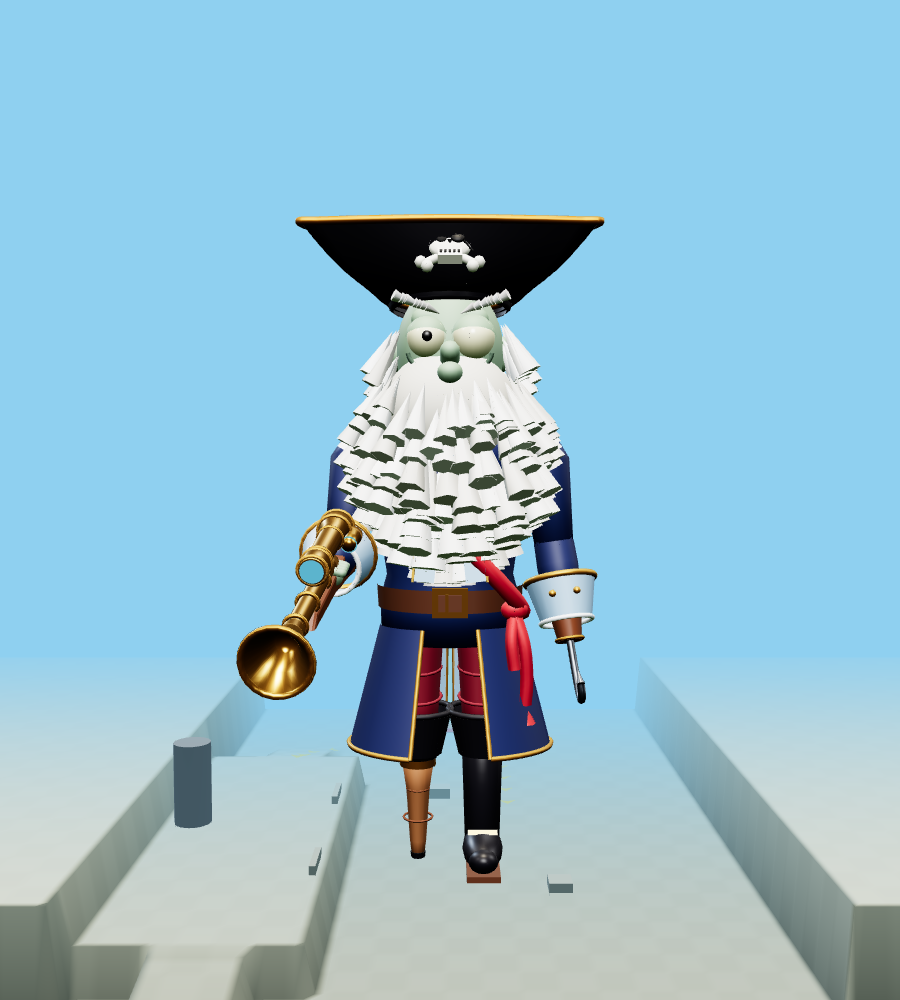
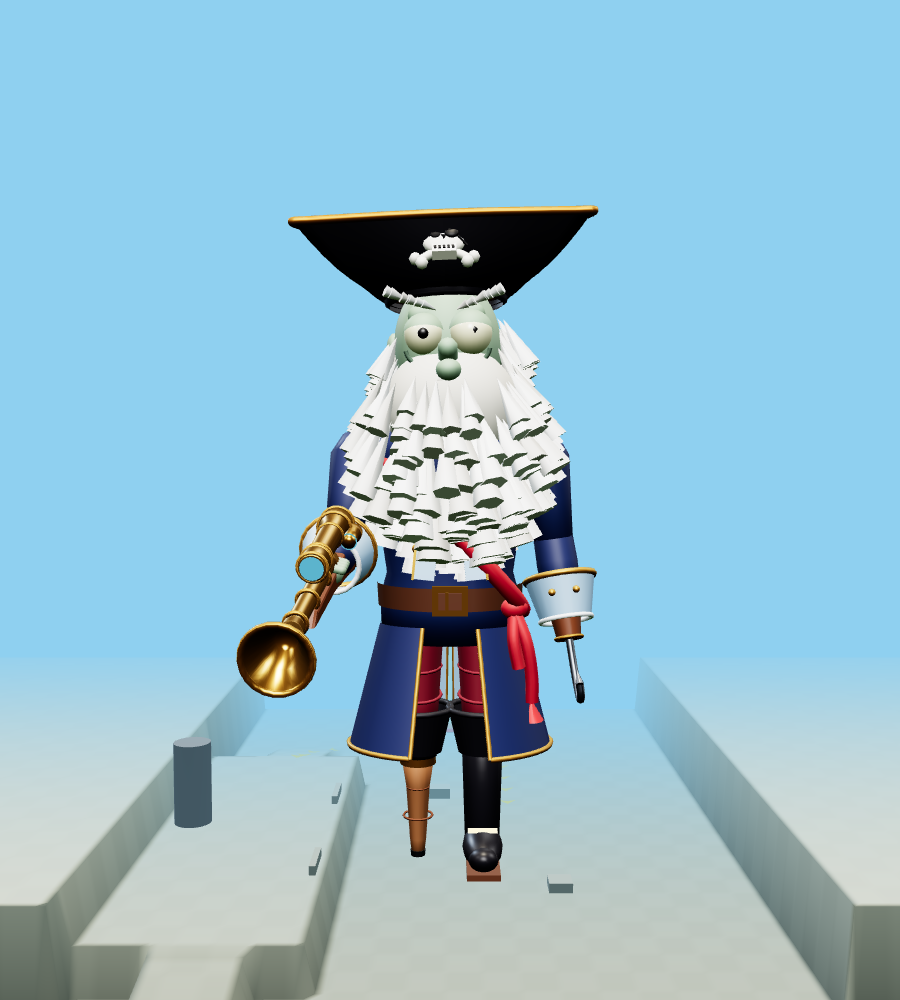
Render: skip sub-texel shadow casters, unify instanced materials, single-pass transparent FX; refresh pirate screenshots

diff --git a/index.html b/index.html
@@ -935,6 +935,9 @@ const CONFIG = {
   skullTime: 20,                // the ghost skull marks where a pack spawned for this many seconds
   markerArrowLength: 48,        // metres of each active route shown by ground arrows during the countdown
   maxParticles: 450,
+  render: {
+    minShadowCaster: 0.03,     // m: baked rig parts smaller than this skip the shadow pass (under a shadow texel)
+  },
   plantShotLife: 6,       // s; plant bullets fly until they hit something or leave the map (this is only a safety net)
   fxLights: 2,            // pooled effect point lights (Super Brainz balls); fixed so shaders never recompile
 
@@ -1220,7 +1223,30 @@ function bakeRig(root, refs = null) {
   };
   scan(refs, 0);
   root.traverse(o => { if (Object.keys(o.userData).length) scan(o.userData, 0); });
-  const plainRender = THREE.Object3D.prototype.onBeforeRender;
+  const plainRender = THREE.Object3D.prototype.onBeforeRender, scale = new THREE.Vector3();
+  // Parts smaller than a shadow-map texel (eyelets, rivets, laces) cast no visible shadow: skip their shadow draw
+  root.updateMatrixWorld(true);
+  root.traverse(o => {
+    if (!o.isMesh || !o.castShadow || !o.geometry.attributes.position) return;
+    if (!o.geometry.boundingSphere) o.geometry.computeBoundingSphere();
+    o.getWorldScale(scale);
+    if (o.geometry.boundingSphere.radius * Math.max(scale.x, scale.y, scale.z) < CONFIG.render.minShadowCaster) o.castShadow = false;
+  });
+  // A material drawn with mixed receiveShadow / instancing makes three.js re-resolve its shader on every draw:
+  // unify receiveShadow, and give instanced users a twin material that mirrors the original's flash/fade state.
+  const uses = new Map();
+  root.traverse(o => { if (o.isMesh && !Array.isArray(o.material)) { if (!uses.has(o.material)) uses.set(o.material, []); uses.get(o.material).push(o); } });
+  for (const [m, list] of uses) {
+    if (list.some(o => o.receiveShadow)) for (const o of list) o.receiveShadow = true;
+    const inst = list.filter(o => o.isInstancedMesh);
+    if (!inst.length || inst.length === list.length) continue;
+    const twin = m.clone();
+    const mirror = () => {
+      twin.color?.copy(m.color); twin.emissive?.copy(m.emissive);
+      twin.emissiveIntensity = m.emissiveIntensity; twin.opacity = m.opacity; twin.visible = m.visible;
+    };
+    for (const o of inst) { o.material = twin; o.onBeforeRender = mirror; }
+  }
   const parents = [];
   root.traverse(o => { if (o.children.length > 1 && !o.userData.noMerge) parents.push(o); });
   for (const p of parents) {
@@ -1270,15 +1296,19 @@ const shaderGuard = { active: false, queue: [], pending: [], pinned: 0,
 const objectAdd = THREE.Object3D.prototype.add;
 THREE.Object3D.prototype.add = function (object) {
   const result = objectAdd.apply(this, arguments);
-  if (shaderGuard.active && arguments.length === 1 && object !== this) {   // multi-adds recurse one by one
+  if (shaderGuard.active && arguments.length === 1 && object !== this && !object.prewarmed) {   // multi-adds recurse one by one
     let root = this; while (root.parent) root = root.parent;
     if (root === scene) shaderGuard.queue.push(object);
   }
   return result;
 };
 const guardBatch = { list: null, traverse(cb) { for (const o of this.list) o.traverse(cb); }, traverseVisible() {} };
+// Transparent double-sided materials draw in two passes (back, then front), and each pass re-resolves the shader:
+// for effects that's pure overhead, so they draw both faces in one pass.
+const singlePass = o => { for (const m of [].concat(o.material || [])) if (m.transparent && m.side === THREE.DoubleSide) m.forceSinglePass = true; };
 function updateShaderGuard() {
   const G = shaderGuard, programs = renderer.info.programs;
+  for (const o of G.queue) o.traverse(singlePass);
   if (G.queue.length && G.parallel) {
     guardBatch.list = G.queue; G.queue = [];
     const waiting = new Set();
@@ -3455,8 +3485,9 @@ function resetGame() {
   clearPirateWorld();
   clearGargantuarWorld();
   zombies.forEach(z => { z.dead = true; z.parts.dispose?.(); });   // release each rig's own resources
-  [...zombies, ...projectiles, ...rockets, ...butterPats, ...enemyProjectiles, ...effects, ...particles]
+  [...zombies, ...projectiles, ...rockets, ...butterPats, ...enemyProjectiles, ...effects]
     .forEach(o => scene.remove(o.mesh));
+  particles.forEach(p => freeParticle(p.mesh));
   popups.forEach(p => p.el.remove());
   skulls.forEach(s => s.life = 0);   // removed on the next updateSkulls
   zombies = []; projectiles = []; rockets = []; butterPats = []; enemyProjectiles = []; effects = []; particles = []; popups = [];
@@ -3813,7 +3844,7 @@ const overlay = document.getElementById('overlay');
 
 document.getElementById('matchButton').addEventListener('click', () => {
   if (!matchStarted || state.over) {
-    configureSquad(readSquadSelection()); fillRigPools();   // restart: rebuild spent rigs before play
+    configureSquad(readSquadSelection()); fillRigPools(); warmUpload();   // restart: rebuild spent rigs before play
     matchStarted = true;
     document.body.classList.remove('preMatch');
   }
@@ -3912,17 +3943,22 @@ const PARTICLE_GEO = {
   puff: new THREE.SphereGeometry(0.3, 8, 6),
   leaf: new THREE.PlaneGeometry(0.22, 0.1),
 };
+// Particle meshes are recycled (no per-particle material/mesh allocation, no GC churn). A recycled mesh has been
+// drawn already, so it skips the shader guard (`prewarmed`).
+const particlePool = [];
+function freeParticle(m) { scene.remove(m); m.prewarmed = true; particlePool.push(m); }
 function spawnParticle(kind, color, pos, vel, { life = 0.6, gravity = 18, grow = 0, size = 1, additive = false, drag = 0 } = {}) {
-  const mat = new THREE.MeshBasicMaterial({ color, transparent: true, opacity: 1, depthWrite: false,
-    side: THREE.DoubleSide, blending: additive ? THREE.AdditiveBlending : THREE.NormalBlending });
-  const mesh = new THREE.Mesh(PARTICLE_GEO[kind], mat);
+  let mesh = particlePool.pop();
+  if (mesh) { mesh.geometry = PARTICLE_GEO[kind]; mesh.material.color.set(color); mesh.material.opacity = 1; }
+  else mesh = new THREE.Mesh(PARTICLE_GEO[kind], new THREE.MeshBasicMaterial({ color, transparent: true, opacity: 1, depthWrite: false, side: THREE.DoubleSide, forceSinglePass: true }));
+  mesh.material.blending = additive ? THREE.AdditiveBlending : THREE.NormalBlending;
   mesh.position.copy(pos);
   mesh.scale.setScalar(size);
   mesh.rotation.set(Math.random() * 6, Math.random() * 6, Math.random() * 6);
   scene.add(mesh);
   particles.push({ mesh, vel, life, maxLife: life, gravity, grow, size, drag,
     spin: new THREE.Vector3(Math.random() - 0.5, Math.random() - 0.5, Math.random() - 0.5).multiplyScalar(14) });
-  if (particles.length > CONFIG.maxParticles) { const old = particles.shift(); scene.remove(old.mesh); old.mesh.material.dispose(); }
+  if (particles.length > CONFIG.maxParticles) freeParticle(particles.shift().mesh);
 }
 const rand3 = (s, up = 0) => new THREE.Vector3((Math.random() - 0.5) * s, (Math.random() - 0.5) * s + up, (Math.random() - 0.5) * s);
 
@@ -3930,7 +3966,7 @@ function updateParticles(dt) {
   for (let i = particles.length - 1; i >= 0; i--) {
     const p = particles[i], m = p.mesh;
     p.life -= dt;
-    if (p.life <= 0) { scene.remove(m); m.material.dispose(); particles.splice(i, 1); continue; }
+    if (p.life <= 0) { freeParticle(m); particles.splice(i, 1); continue; }
     p.vel.y -= p.gravity * dt;
     if (p.drag) p.vel.multiplyScalar(Math.exp(-p.drag * dt));
     m.position.addScaledVector(p.vel, dt);
@@ -3944,15 +3980,17 @@ function updateParticles(dt) {
 }
 
 // Expanding fading sphere (kind 'sphere'), ground shockwave ring ('ring'), or a fading ground splat ('decal')
+// Effects share unit geometries (scaled per effect) instead of building and uploading new ones per explosion
+const EFFECT_GEO = { sphere: new THREE.SphereGeometry(1, 16, 16), ring: new THREE.RingGeometry(0.8, 1, 48), decal: new THREE.CircleGeometry(1, 24) };
 function spawnExplosion(pos, radius, color = 0xff8800) {
-  const mesh = new THREE.Mesh(new THREE.SphereGeometry(1, 16, 16),
+  const mesh = new THREE.Mesh(EFFECT_GEO.sphere,
     new THREE.MeshBasicMaterial({ color, transparent: true, opacity: 0.7, depthWrite: false }));
   mesh.position.copy(pos);
   scene.add(mesh);
   effects.push({ mesh, t: 0, duration: 0.35, radius, kind: 'sphere' });
 }
 function spawnRing(pos, radius, color, duration = 0.4) {
-  const mesh = new THREE.Mesh(new THREE.RingGeometry(0.8, 1, 48),
+  const mesh = new THREE.Mesh(EFFECT_GEO.ring,
     new THREE.MeshBasicMaterial({ color, transparent: true, opacity: 0.9, depthWrite: false, side: THREE.DoubleSide }));
   mesh.rotation.x = -Math.PI / 2;
   mesh.position.set(pos.x, 0.08, pos.z);
@@ -3960,9 +3998,9 @@ function spawnRing(pos, radius, color, duration = 0.4) {
   effects.push({ mesh, t: 0, duration, radius, kind: 'ring' });
 }
 function spawnDecal(pos, radius, color, duration) {
-  const mesh = new THREE.Mesh(new THREE.CircleGeometry(radius, 24),
+  const mesh = new THREE.Mesh(EFFECT_GEO.decal,
     new THREE.MeshStandardMaterial({ color, roughness: 0.2, transparent: true, opacity: 0.85, depthWrite: false }));
-  mesh.rotation.x = -Math.PI / 2;
+  mesh.rotation.x = -Math.PI / 2; mesh.scale.setScalar(radius);
   mesh.position.set(pos.x, 0.03 + Math.random() * 0.01, pos.z);
   mesh.receiveShadow = true;
   scene.add(mesh);
@@ -3983,7 +4021,7 @@ function updateEffects(dt) {
     } else if (e.kind === 'decal') {
       e.mesh.material.opacity = 0.85 * Math.min(1, (1 - k) * 4);
     }
-    if (k >= 1) { scene.remove(e.mesh); e.mesh.geometry.dispose(); e.mesh.material.dispose(); effects.splice(i, 1); }
+    if (k >= 1) { scene.remove(e.mesh); e.mesh.material.dispose(); effects.splice(i, 1); }   // geometry is shared
   }
 }
 
@@ -4503,9 +4541,12 @@ function freeSolarObject(root) {
   if (!root) return;
   scene.remove(root);
   const geometries = new Set(), materials = new Set();
-  root.traverse(o => { if (o.geometry) geometries.add(o.geometry); if (o.material) materials.add(o.material); });
+  root.traverse(o => { if (o.geometry && !o.geometry.userData.shared) geometries.add(o.geometry); if (o.material) materials.add(o.material); });
   geometries.forEach(g => g.dispose()); materials.forEach(m => m.dispose());
 }
+// Sun pulse shapes are shared by every shot (no geometry build + upload per shot)
+const SUN_PULSE_GEO = { core: new THREE.SphereGeometry(0.065, 8, 6), halo: new THREE.SphereGeometry(0.115, 8, 6) };
+SUN_PULSE_GEO.core.userData.shared = SUN_PULSE_GEO.halo.userData.shared = true;
 function clearSunflowerWorld() {
   for (const a of [sunPulses, healFlowers, sunDrops]) for (const o of a) freeSolarObject(o.mesh);
   sunPulses = []; healFlowers = []; sunDrops = [];
@@ -4609,9 +4650,9 @@ function fireSunPulse(h) {
   if (h.sun?.sunbeam) return;
   const W = h.weapon, F = CONFIG.SUNFLOWER.fx, start = sunflowerMuzzle(h), dir = aimedDir(h, start, currentSpread(h));
   const mesh = new THREE.Group();
-  const core = new THREE.Mesh(new THREE.SphereGeometry(0.065, 8, 6), new THREE.MeshBasicMaterial({ color: F.coreColor, toneMapped: false }));
+  const core = new THREE.Mesh(SUN_PULSE_GEO.core, new THREE.MeshBasicMaterial({ color: F.coreColor, toneMapped: false }));
   core.scale.z = 2.7; mesh.add(core);
-  const halo = new THREE.Mesh(new THREE.SphereGeometry(0.115, 8, 6), new THREE.MeshBasicMaterial({ color: F.pulseColor,
+  const halo = new THREE.Mesh(SUN_PULSE_GEO.halo, new THREE.MeshBasicMaterial({ color: F.pulseColor,
     transparent: true, opacity: 0.35, blending: THREE.AdditiveBlending, depthWrite: false, toneMapped: false }));
   halo.scale.z = 2.1; mesh.add(halo); mesh.position.copy(start); mesh.quaternion.setFromUnitVectors(FWD_Z, dir); scene.add(mesh);
   sunPulses.push({ mesh, vel: dir.multiplyScalar(W.kernelSpeed), start: start.clone(), life: CONFIG.plantShotLife, owner: h, weapon: W });
@@ -13897,12 +13938,11 @@ function buildPirateParrot(M) {
 function attachPirateRig(mesh, parts, def) {
   const halfH = def.radius + def.height / 2;
   mesh.material.visible = false; mesh.castShadow = false;
-  const M = pirateMaterials();
-  const rig = buildDeadbeard(M);
+  const { M, rig, keg, cannon } = takeRig('pirate');   // cloned from a prebuilt template (shared geometry)
   rig.root.position.y = -halfH; rig.root.scale.setScalar(0.94);
   mesh.add(rig.root);
-  const keg = buildPirateKeg(M, true); keg.g.position.y = -halfH; keg.g.visible = false; mesh.add(keg.g);
-  const cannon = buildPirateCannon(M); cannon.g.position.y = -halfH; cannon.g.visible = false; mesh.add(cannon.g);
+  keg.g.position.y = -halfH; keg.g.visible = false; mesh.add(keg.g);
+  cannon.g.position.y = -halfH; cannon.g.visible = false; mesh.add(cannon.g);
   // Sniper laser telegraph (world space, stretched along +Z)
   const laser = new THREE.Mesh(new THREE.CylinderGeometry(0.012, 0.012, 1, 6, 1, true).rotateX(Math.PI / 2).translate(0, 0, 0.5),
     new THREE.MeshBasicMaterial({ color: 0xff3020, transparent: true, opacity: 0, blending: THREE.AdditiveBlending, depthWrite: false }));
@@ -13914,9 +13954,7 @@ function attachPirateRig(mesh, parts, def) {
     animate: animateDeadbeard,
     dispose() {
       scene.remove(laser); laser.geometry.dispose(); laser.material.dispose();
-      const geos = new Set();
-      mesh.traverse(o => { if (o.geometry && o !== mesh) geos.add(o.geometry); });
-      geos.forEach(g => g.dispose()); mats.forEach(m => m.dispose());
+      mats.forEach(m => m.dispose());   // geometry belongs to the shared rig template
     },
   });
 }
@@ -16320,13 +16358,81 @@ Object.assign(window.__game, { gargantuarState, gargantuarStartSlam, launchGarga
 Object.assign(window.__game, { THREE, renderer, buildImp, buildZMech, callZMech, throwGravityGrenade, ejectZMech });
 Object.assign(window.__game, { buildMechaGargantuar, mechaState, mechaBegin, mechaThrowBomb, mechaBombs });
 
-// Prebuilt procedural rigs: each spawn takes a fresh one built behind a loading screen (boot / match reset)
-// instead of sculpting it mid-match; an empty pool falls back to building on the spot.
+// Prebuilt procedural rigs, never sculpted mid-match (a build is 3-10 ms, longer than a 144 Hz frame).
+// `templates` rigs are built + baked once at boot; every spawn clones one (cloneRig, ~1 ms) with its own materials,
+// cycling through a few variants. `count` rigs (the one-off final boss) are prebuilt per match instead.
 const bakedRig = r => (bakeRig(r.root || r, r), r);
-const RIG_POOL = { mecha: { build: () => bakedRig(buildMechaGargantuar()), count: 1, list: [] }, imp: { build: () => bakedRig(buildImp()), count: 2, list: [] },
-  zmech: { build: () => bakedRig(buildZMech()), count: 1, list: [] }, soldier: { build: () => bakedRig(buildFootSoldier()), count: 2, list: [] } };
-function takeRig(key) { const p = RIG_POOL[key]; return p.list.pop() || p.build(); }
-function fillRigPools() { for (const p of Object.values(RIG_POOL)) while (p.list.length < p.count) p.list.push(p.build()); }
+const RIG_POOL = {
+  mecha: { build: () => bakedRig(buildMechaGargantuar()), count: 1, list: [] },
+  imp: { build: () => bakedRig(buildImp()), templates: 2 },
+  zmech: { build: () => bakedRig(buildZMech()), templates: 1 },
+  soldier: { build: () => bakedRig(buildFootSoldier()), templates: 3, init: rig => {   // own idle rhythm + laser
+    const u = rig.userData; u.phase = Math.random() * 10; u.twitchT = 1 + Math.random() * 3;
+    for (const o of [u.laser, u.laserDot]) if (!o.parent) scene.add(o); } },
+  pirate: { build: () => { const M = pirateMaterials(), rig = buildDeadbeard(M);
+    const t = { M, rig, keg: buildPirateKeg(M, true), cannon: buildPirateCannon(M) }; bakeRig(rig.root, t); return t; }, templates: 2 },
+};
+function takeRig(key) {
+  const p = RIG_POOL[key];
+  if (p.templates) {
+    p.built ||= Array.from({ length: p.templates }, p.build);
+    const rig = cloneRig(p.built[p.next = ((p.next ?? -1) + 1) % p.built.length]);
+    p.init?.(rig);
+    return rig;
+  }
+  return p.list.pop() || p.build();
+}
+function fillRigPools() {
+  for (const p of Object.values(RIG_POOL)) {
+    if (p.templates) p.built ||= Array.from({ length: p.templates }, p.build);
+    else while (p.list.length < p.count) p.list.push(p.build());
+  }
+}
+// Deep-copy a rig template: its Object3D trees (geometry shared, materials cloned once per rig) and every value the
+// builder returned or kept in userData, with references to template objects / materials pointed at the copies.
+// Objects the template parked straight in the scene (laser telegraphs) are copied into the scene too.
+function cloneRig(template) {
+  const objs = new Map(), mats = new Map(), done = new Map();
+  const copyMat = m => {
+    if (!mats.has(m)) { const ud = m.userData; m.userData = {}; const c = m.clone(); m.userData = ud; mats.set(m, c);
+      c.onBeforeCompile = m.onBeforeCompile; c.customProgramCacheKey = m.customProgramCacheKey; c.userData = copy(ud); }
+    return mats.get(m);
+  };
+  const copyTree = src => {
+    const ud = src.userData; src.userData = {};
+    const c = src.clone(false); src.userData = ud;
+    objs.set(src, c);
+    if (c.material) c.material = Array.isArray(c.material) ? c.material.map(copyMat) : copyMat(c.material);
+    for (const child of src.children) objectAdd.call(c, copyTree(child));
+    return c;
+  };
+  const mapObject = o => {
+    if (!objs.has(o)) {
+      let top = o; while (top.parent && top.parent !== scene) top = top.parent;
+      const c = copyTree(top);
+      if (top.parent === scene) scene.add(c);
+      for (const [src, dst] of objs) if (!dst.userDataCopied) { dst.userDataCopied = true; dst.userData = copy(src.userData); }
+    }
+    return objs.get(o);
+  };
+  const copy = v => {
+    if (!v || typeof v !== 'object') return v;
+    if (v.isObject3D) return mapObject(v);
+    if (v.isMaterial) return copyMat(v);
+    if (v.isColor || v.isVector2 || v.isVector3 || v.isVector4 || v.isQuaternion || v.isEuler || v.isMatrix4) return v.clone();
+    if (done.has(v)) return done.get(v);
+    let out;
+    if (Array.isArray(v)) { out = []; done.set(v, out); for (const x of v) out.push(copy(x)); }
+    else if (v instanceof Map) { out = new Map(); done.set(v, out); for (const [k, x] of v) out.set(k, copy(x)); }
+    else if (v instanceof Set) { out = new Set(); done.set(v, out); for (const x of v) out.add(copy(x)); }
+    else if (Object.getPrototypeOf(v) === Object.prototype) { out = {}; done.set(v, out); for (const k in v) out[k] = copy(v[k]); }
+    else return v;   // geometries, textures, typed arrays, class instances: shared
+    return out;
+  };
+  const rig = copy(template);
+  for (const c of objs.values()) delete c.userDataCopied;
+  return rig;
+}
 
 // Build every lazily created model / template and compile its shaders behind the loading screen: one of each
 // zombie type is spawned, rendered once, then cleared by a match reset. New lazy assets belong here too.
@@ -16337,13 +16443,35 @@ function prewarmAssets() {
   try { AS_IMP ||= asImpTemplate(); AS_SHIELD ||= asShieldTemplate(); } catch (err) { console.warn('prewarm all-star', err); }
   for (const z of zombies) z.mesh.visible = true;
   spawnCactusTrail(new THREE.Vector3(0, 2, 0), new THREE.Vector3(0, 2, 6));
+  scene.traverse(singlePass);
   renderer.compile(scene, camera);
-  renderer.render(scene, camera);
+  fillRigPools();
+  warmUpload();
   pinPrograms();   // keep every program alive past the reset below
   prewarmShadowVariants();
   resetGame();
-  fillRigPools();
   shaderGuard.active = true;
+}
+// Draw the whole scene plus every pooled rig and rig template once with frustum culling off, so all geometry and
+// textures are uploaded behind a loading screen, not on the frame something first comes into view.
+function warmUpload() {
+  const guard = shaderGuard.active, before = new Set(scene.children), warm = new THREE.Group(), culled = [];
+  shaderGuard.active = false;
+  const roots = new Set();
+  const rootsOf = r => { for (const v of r.isObject3D ? [r] : Object.values(r)) for (const o of [v, v?.root, v?.g]) if (o?.isObject3D && !o.parent) roots.add(o); };
+  for (const [key, p] of Object.entries(RIG_POOL)) {
+    if (p.templates) for (let i = 0; i < p.templates; i++) rootsOf(takeRig(key));
+    else p.list.forEach(rootsOf);
+  }
+  roots.forEach(o => warm.add(o));
+  scene.add(warm);
+  scene.traverse(o => { if (o.frustumCulled) { o.frustumCulled = false; culled.push(o); } });
+  renderer.render(scene, camera);
+  culled.forEach(o => { o.frustumCulled = true; });
+  scene.remove(warm);
+  roots.forEach(o => warm.remove(o));   // pooled rigs go back detached; template clones are dropped
+  for (const o of [...scene.children]) if (!before.has(o)) scene.remove(o);   // clones' scene extras (lasers)
+  shaderGuard.active = guard;
 }
 prewarmAssets();
 if (bootSelection) {
